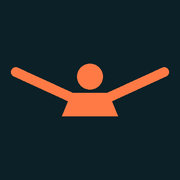
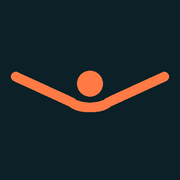
Add files via upload

Changed region(s): [[0.0556, 0.3333, 0.9444, 0.6667]]

diff --git a/index.html b/index.html
@@ -301,9 +301,7 @@
     <div class="brand">
       <svg class="brand-mark" width="26" height="22" viewBox="0 0 52 44" fill="none" xmlns="http://www.w3.org/2000/svg">
         <circle cx="26" cy="5" r="3.3" fill="#FF7A45"/>
-        <path d="M21 9 L31 9 L33 15 L19 15 Z" fill="#FF7A45"/>
-        <path d="M21 10 L9 4" stroke="#FF7A45" stroke-width="2.4" stroke-linecap="round" fill="none"/>
-        <path d="M31 10 L43 4" stroke="#FF7A45" stroke-width="2.4" stroke-linecap="round" fill="none"/>
+        <path d="M9 4 L21 10 C 23 12, 29 12, 31 10 L43 4" stroke="#FF7A45" stroke-width="2.4" stroke-linecap="round" stroke-linejoin="round" fill="none"/>
         <path d="M6 17 C 12 13, 18 13, 22 17 C 26 21, 32 21, 38 17 C 42 14, 46 14, 50 17" stroke="#F1E6C8" stroke-opacity="0.55" stroke-width="1.6" stroke-linecap="round" fill="none"/>
         <path d="M8 26 C 14 23, 18 23, 22 26 L 22 38 C 18 35, 14 35, 8 38 Z" stroke="#F1E6C8" stroke-width="1.6" fill="none" stroke-linejoin="round"/>
         <path d="M36 26 C 30 23, 26 23, 22 26 L 22 38 C 26 35, 30 35, 36 38 Z" stroke="#F1E6C8" stroke-width="1.6" fill="none" stroke-linejoin="round"/>
@@ -330,10 +328,8 @@
   <section class="hero" style="border:none; padding-bottom:0;">
     <div class="hero-mark">
       <svg width="84" height="70" viewBox="0 0 84 70" fill="none" xmlns="http://www.w3.org/2000/svg">
-        <circle cx="42" cy="7" r="5.5" fill="#FF7A45"/>
-        <path d="M34 14 L50 14 L54 24 L30 24 Z" fill="#FF7A45"/>
-        <path d="M34 16 L10 5" stroke="#FF7A45" stroke-width="4" stroke-linecap="round" fill="none"/>
-        <path d="M50 16 L74 5" stroke="#FF7A45" stroke-width="4" stroke-linecap="round" fill="none"/>
+        <circle cx="42" cy="8" r="5.5" fill="#FF7A45"/>
+        <path d="M10 5 L34 16 C 37 19, 47 19, 50 16 L74 5" stroke="#FF7A45" stroke-width="4" stroke-linecap="round" stroke-linejoin="round" fill="none"/>
         <path d="M10 27 C 19 21, 29 21, 36 27 C 43 33, 53 33, 62 27 C 68 23, 76 23, 82 27" stroke="#F1E6C8" stroke-opacity="0.55" stroke-width="2" stroke-linecap="round" fill="none"/>
         <path d="M14 42 C 23 37, 30 37, 36 42 L 36 63 C 30 58, 23 58, 14 63 Z" stroke="#F1E6C8" stroke-width="2" fill="none" stroke-linejoin="round"/>
         <path d="M58 42 C 49 37, 42 37, 36 42 L 36 63 C 42 58, 49 58, 58 63 Z" stroke="#F1E6C8" stroke-width="2" fill="none" stroke-linejoin="round"/>
